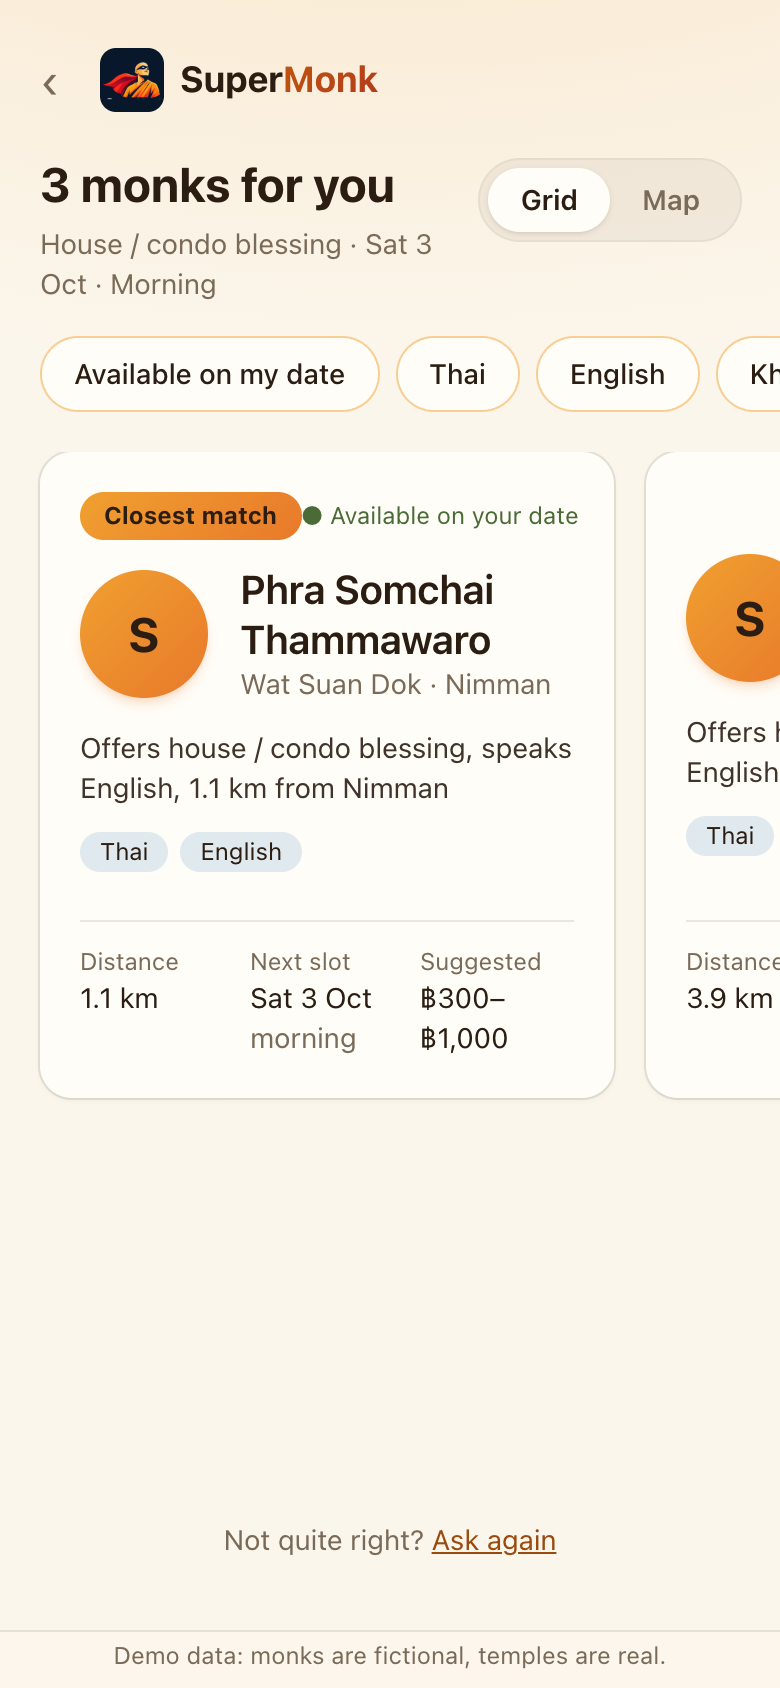
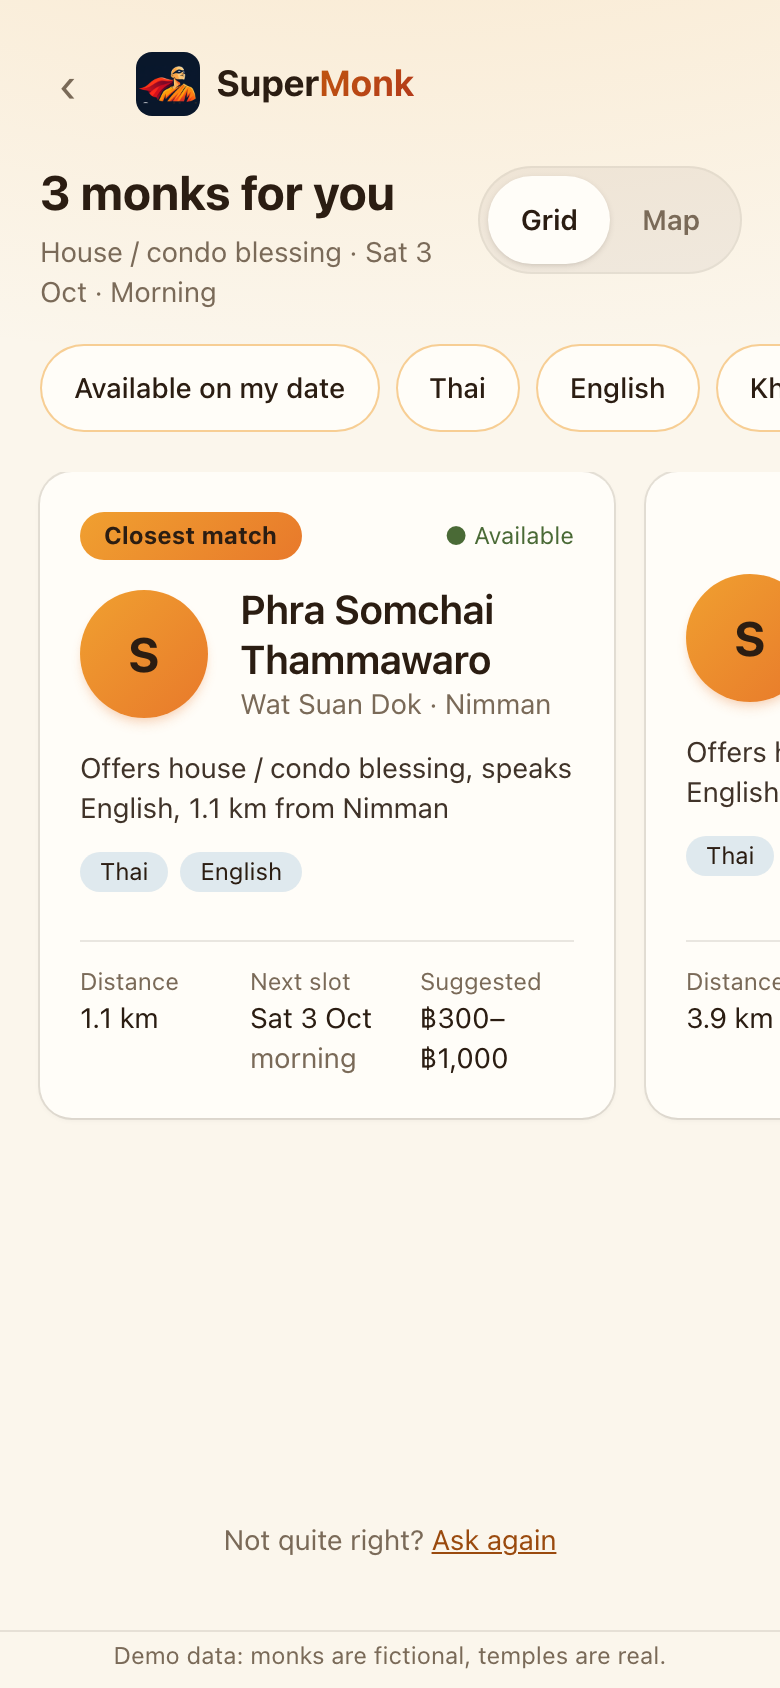
UX review fixes: declined-page overflow, badge gap, titles, live status, badges, layout
Blockers from RESEARCH/SUPERMONK_UX_REVIEW_2026_09_26.md:
- /invite/<declined> no longer overflows at 1440 (was 2465 px): the runner-up
  wrapper is block, MonkCard takes lg:w-full min-w-0 and the bio breaks words.
  Measured scrollWidth 1440 on a real declined invite.
- "Closest match" badge no longer touches the availability label at 390: the top
  row has gap-2 and the label reads "Available" / "Not on date" below lg
  (72 px gap on the 287 px card).

Should-fixes:
- "Declined" badge uses a new cape-deep token (5.67:1 on the cape/15 tint).
- VerifiedBadge: tier 1 is mist/navy instead of cream-on-white; level 0 is hidden
  unless NEXT_PUBLIC_VERIFY_REQUIRED=1 (documented in env.example, README,
  docs/VERIFICATION.md), so the demo never shows "Not verified".
- "Suggested donation (ทำบุญ)" -> "(ปัจจัย)" to match the card.
- Root title template "%s · SuperMonk" plus a layout.tsx per route segment with
  its own title; /play keeps "Healing bowls" through the template.
- sr-only H1 on /chat and /matching; ConfirmationCard heading is H2.
- Header logo link labelled "SuperMonk home".
- One persistent sr-only live region on the invite page whose text follows the
  status, so pending -> accepted/declined is announced.
- Accepted invite renders as a single centred column at lg; chat pills sit under
  the last bubble (28 px) instead of pinned ~480 px lower.
- /onboard unselected slot buttons are surface/navy-ringed so they show on the
  white card.
[…]

diff --git a/tests/ux-review.test.ts b/tests/ux-review.test.ts
@@ -1,0 +1,112 @@
+import { readdirSync } from "node:fs";
+import path from "node:path";
+import { createElement } from "react";
+import { renderToStaticMarkup } from "react-dom/server";
+import { afterEach, describe, expect, it } from "vitest";
+import ConfirmationCard from "@/components/ConfirmationCard";
+import { Header } from "@/components/ui";
+import VerifiedBadge, { verifyRequiredPublic } from "@/components/VerifiedBadge";
+import { metadata as rootMetadata } from "@/app/layout";
+import type { ConfirmationCard as CardData } from "@/lib/types";
+
+// Guards for the UX review fixes (RESEARCH/SUPERMONK_UX_REVIEW_2026_09_26.md).
+
+describe("VerifiedBadge", () => {
+  const saved = process.env.NEXT_PUBLIC_VERIFY_REQUIRED;
+  afterEach(() => {
+    if (saved === undefined) delete process.env.NEXT_PUBLIC_VERIFY_REQUIRED;
+    else process.env.NEXT_PUBLIC_VERIFY_REQUIRED = saved;
+  });
+
+  it("hides 'Not verified' at level 0 while the gate is off (the demo default)", () => {
+    delete process.env.NEXT_PUBLIC_VERIFY_REQUIRED;
+    expect(verifyRequiredPublic()).toBe(false);
+    expect(renderToStaticMarkup(createElement(VerifiedBadge, { level: 0 }))).toBe("");
+  });
+
+  it("shows 'Not verified' at level 0 when NEXT_PUBLIC_VERIFY_REQUIRED=1", () => {
+    process.env.NEXT_PUBLIC_VERIFY_REQUIRED = "1";
+    const html = renderToStaticMarkup(createElement(VerifiedBadge, { level: 0 }));
+    expect(html).toContain("Not verified");
+    expect(html).not.toContain("cream");
+  });
+
+  it("renders tiers 1 and 2 on light surfaces (no cream-on-white)", () => {
+    for (const level of [1, 2] as const) {
+      const html = renderToStaticMarkup(createElement(VerifiedBadge, { level }));
+      expect(html).toContain(level === 1 ? "Phone verified" : "Verified host");
+      expect(html).toContain("text-navy");
+      expect(html).not.toContain("text-cream");
+    }
+  });
+
+  it("renders nothing while the level is unknown", () => {
+    expect(renderToStaticMarkup(createElement(VerifiedBadge, { level: undefined }))).toBe("");
+  });
+});
+
+describe("page titles", () => {
+  const root = path.resolve(import.meta.dirname, "..", "app");
+  const expected: Record<string, string> = {
+    chat: "Ask",
+    matching: "Finding monks",
+    matches: "Monks for you",
+    monk: "Monk profile",
+    invite: "Your invite",
+    my: "My invites",
+    office: "Temple office",
+    onboard: "กิจนิมนต์ SuperMonk",
+    verify: "Verify",
+  };
+
+  it("root layout uses a title template", () => {
+    expect(rootMetadata.title).toEqual({ default: "SuperMonk", template: "%s · SuperMonk" });
+  });
+
+  it.each(Object.entries(expected))("app/%s has its own title", async (segment, title) => {
+    const mod = (await import(`@/app/${segment}/layout.tsx`)) as { metadata?: { title?: unknown } };
+    expect(mod.metadata?.title).toBe(title);
+  });
+
+  it("/play keeps its own title (server page)", async () => {
+    const mod = (await import("@/app/play/page")) as { metadata?: { title?: unknown } };
+    expect(mod.metadata?.title).toBe("Healing bowls");
+  });
+
+  // Class-of-issue guard: every user-facing route segment must be titled.
+  it("every non-API route segment with a page has a layout or page title", () => {
+    const untitled = readdirSync(root, { withFileTypes: true })
+      .filter((d) => d.isDirectory() && !["api", "dev"].includes(d.name))
+      .map((d) => d.name)
+      .filter((seg) => {
+        const files = readdirSync(path.join(root, seg));
+        return !(files.includes("layout.tsx") || seg === "play");
+      });
+    expect(untitled).toEqual([]);
+  });
+});
+
+describe("headings and names", () => {
+  const card: CardData = {
+    code: "SM-TEST1",
+    monkName: "Phra Somchai",
+    templeName: "Wat Suan Dok",
+    when: "Sat 3 Oct, morning",
+    where: "Nimman",
+    donation: 1000,
+    prepare: ["Envelope"],
+    thaiLine: "ขอนิมนต์",
+    icsUrl: "/api/invites/SM-TEST1/ics",
+  };
+
+  it("ConfirmationCard uses H2 for 'What to prepare' (no H3 after the page H1)", () => {
+    const html = renderToStaticMarkup(createElement(ConfirmationCard, { card }));
+    expect(html).toContain("<h2");
+    expect(html).not.toContain("<h3");
+  });
+
+  it("Header logo link has an accessible name even without the wordmark", () => {
+    const html = renderToStaticMarkup(createElement(Header, { title: "Verify" }));
+    expect(html).toContain('aria-label="SuperMonk home"');
+  });
+});

diff --git a/app/invite/[code]/page.tsx b/app/invite/[code]/page.tsx
@@ -64,24 +64,47 @@ function InviteStatus() {
     setNext(others[0]);
   }, [data]);
 
-  if (!data) return error ? <ErrorNote message={error} /> : <p className="mt-20 text-center text-muted">Loading…</p>;
+  // One live region that exists from the first render; only its text changes, so screen readers
+  // announce pending → accepted / declined (a region mounted together with its content is not).
+  const status = !data
+    ? "Loading your invite"
+    : data.invite.status === "pending"
+      ? "Invite sent"
+      : data.invite.status === "accepted"
+        ? `${data.card.monkName} accepted`
+        : `${data.card.monkName} can't make it`;
+  const live = (
+    <p role="status" aria-live="polite" className="sr-only">
+      {status}
+    </p>
+  );
+
+  if (!data)
+    return (
+      <>
+        {live}
+        {error ? <ErrorNote message={error} /> : <p className="mt-20 text-center text-muted">Loading…</p>}
+      </>
+    );
   const { invite, card } = data;
 
+  // Accepted: the card is the whole story, so it takes the single centred column on lg (no empty
+  // left column). Declined: the runner-up sits in the aside. `block` (not flex) so the MonkCard
+  // gets the column width instead of sizing to its unwrapped bio.
   const asideContent =
-    invite.status === "accepted" ? (
-      <ConfirmationCard card={card} verified={verified} />
-    ) : invite.status === "declined" && next ? (
-      <div className="-mx-5 flex px-5 lg:mx-0 lg:px-0">
+    invite.status === "declined" && next ? (
+      <div className="-mx-5 block px-5 lg:mx-0 lg:px-0">
         <MonkCard card={next} />
       </div>
     ) : null;
 
   return (
     <Stage aside={asideContent ? <StageAside>{asideContent}</StageAside> : undefined}>
+      {live}
       <section className="flex flex-1 flex-col gap-5">
         <Header back="/my" />
         {invite.status === "pending" ? (
-          <div className="flex flex-col items-center gap-4 py-8 text-center" role="status" aria-live="polite">
+          <div className="flex flex-col items-center gap-4 py-8 text-center">
             <div className="h-14 w-14 rounded-full border-4 border-saffron/20 border-t-saffron motion-safe:animate-spin motion-reduce:border-saffron/60" aria-hidden />
             <h1 className="text-2xl font-bold">Invite sent</h1>
             <p className="text-muted">
@@ -97,7 +120,7 @@ function InviteStatus() {
 
         {invite.status === "accepted" ? (
           <>
-            <div className="text-center" role="status" aria-live="polite">
+            <div className="text-center">
               <p className="text-4xl" aria-hidden>
                 🙏
               </p>
@@ -106,11 +129,12 @@ function InviteStatus() {
               </h1>
               <p className="mt-1 text-muted">Here is everything you need for the day.</p>
             </div>
+            <ConfirmationCard card={card} verified={verified} />
           </>
         ) : null}
 
         {invite.status === "declined" ? (
-          <div className="flex flex-col gap-4" role="status" aria-live="polite">
+          <div className="flex flex-col gap-4">
             <h1 className="text-2xl font-bold">{card.monkName} can't make it</h1>
             <p className="text-muted">The temple office declined this time. Here is another monk who could come.</p>
             {next ? null : (

diff --git a/components/MonkCard.tsx b/components/MonkCard.tsx
@@ -19,12 +19,14 @@ export default function MonkCard({ card, top }: { card: MatchCard; top?: boolean
   return (
     <Link
       href={`/monk/${card.monkId}`}
-      className={`flex w-[82%] shrink-0 snap-center flex-col gap-3 rounded-card bg-navy-2 p-5 shadow-sm shadow-navy/5 ring-1 ring-navy/10 transition active:scale-[0.99] lg:w-auto lg:snap-align-none lg:p-6 motion-safe:lg:hover:-translate-y-1 lg:hover:shadow-lg lg:hover:shadow-orange/10 lg:hover:ring-saffron/50 ${FOCUS_RING}`}
+      className={`flex w-[82%] shrink-0 snap-center flex-col gap-3 rounded-card bg-navy-2 p-5 shadow-sm shadow-navy/5 ring-1 ring-navy/10 transition active:scale-[0.99] min-w-0 lg:w-full lg:snap-align-none lg:p-6 motion-safe:lg:hover:-translate-y-1 lg:hover:shadow-lg lg:hover:shadow-orange/10 lg:hover:ring-saffron/50 ${FOCUS_RING}`}
     >
-      <div className="flex items-center justify-between">
-        {top ? <span className="bg-brand whitespace-nowrap rounded-full px-3 py-1 text-xs font-bold text-navy">Closest match</span> : <span />}
-        <span className={`whitespace-nowrap text-xs ${card.availableOnDate ? "text-rice-deep" : "text-muted"}`}>
-          {card.availableOnDate ? "● Available on your date" : "○ Not on your date"}
+      <div className="flex items-center justify-between gap-2">
+        {top ? <span className="bg-brand shrink-0 whitespace-nowrap rounded-full px-3 py-1 text-xs font-bold text-navy">Closest match</span> : <span />}
+        {/* Short label below lg: the full one touched the "Closest match" badge on a 287 px card at 390 px. */}
+        <span className={`text-right text-xs ${card.availableOnDate ? "text-rice-deep" : "text-muted"}`}>
+          <span className="lg:hidden">{card.availableOnDate ? "● Available" : "○ Not on date"}</span>
+          <span className="hidden lg:inline">{card.availableOnDate ? "● Available on your date" : "○ Not on your date"}</span>
         </span>
       </div>
       <div className="flex items-center gap-4 lg:flex-col lg:items-start lg:gap-3">
@@ -47,7 +49,7 @@ export default function MonkCard({ card, top }: { card: MatchCard; top?: boolean
           </p>
         </div>
       </div>
-      {monk ? <p className="hidden text-sm leading-relaxed text-navy/80 lg:line-clamp-2">{monk.bio}</p> : null}
+      {monk ? <p className="hidden break-words text-sm leading-relaxed text-navy/80 lg:line-clamp-2">{monk.bio}</p> : null}
       <p className="text-sm text-navy/90">
         <span className="hidden text-xs uppercase tracking-wide text-muted lg:block">Why this monk</span>
         {card.why}

diff --git a/components/VerifiedBadge.tsx b/components/VerifiedBadge.tsx
@@ -2,14 +2,22 @@ import type { VerifyTier } from "@/lib/verify/types";
 
 const LABEL: Record<VerifyTier, string> = { 0: "Not verified", 1: "Phone verified", 2: "Verified host" };
 const STYLE: Record<VerifyTier, string> = {
-  0: "text-muted ring-1 ring-cream/15",
-  1: "bg-cream/15 text-cream",
+  0: "text-muted ring-1 ring-navy/15",
+  1: "bg-mist/40 text-navy",
   2: "bg-saffron text-navy",
 };
 
-/** Small pill for invite lists and the confirmation card. `level` comes from /api/verify/status. */
+/** Public mirror of the server's VERIFY_REQUIRED flag (lib/verify/index.ts); inlined by Next at build time. */
+export const verifyRequiredPublic = (env: NodeJS.ProcessEnv = process.env): boolean => env.NEXT_PUBLIC_VERIFY_REQUIRED === "1";
+
+/**
+ * Small pill for invite lists and the confirmation card. `level` comes from /api/verify/status.
+ * "Not verified" is only worth showing when verification gates invites; with the gate off it
+ * reads as a warning on the happy path, so level 0 renders nothing.
+ */
 export default function VerifiedBadge({ level, className = "" }: { level: VerifyTier | undefined; className?: string }) {
   if (level === undefined) return null;
+  if (level === 0 && !verifyRequiredPublic()) return null;
   return (
     <span className={`inline-flex shrink-0 items-center gap-1 rounded-full px-2.5 py-0.5 text-xs font-medium ${STYLE[level]} ${className}`}>
       {level > 0 ? (

diff --git a/app/chat/page.tsx b/app/chat/page.tsx
@@ -102,7 +102,9 @@ export default function ChatPage() {
     <Stage>
       <section className="flex flex-1 flex-col">
         <Header back="/" />
-        <div className="flex flex-1 flex-col gap-3">
+        <h1 className="sr-only">Tell SuperMonk more</h1>
+        {/* lg:flex-none keeps the answer pills right under the last bubble on the projector instead of ~480 px down. */}
+        <div className="flex flex-1 flex-col gap-3 lg:flex-none">
           {flow.messages.map((m, i) => (
             <Bubble key={i} from={m.role}>
               {m.content}

diff --git a/components/ui.tsx b/components/ui.tsx
@@ -88,7 +88,7 @@ export function Header({ title, back }: { title?: string; back?: string }) {
           ‹
         </Link>
       ) : null}
-      <Link href="/" className={`flex items-center gap-2 rounded-lg ${FOCUS_RING}`}>
+      <Link href="/" aria-label="SuperMonk home" className={`flex items-center gap-2 rounded-lg ${FOCUS_RING}`}>
         <img src="/icons/icon-192.png" alt="" className="h-8 w-8 rounded-lg" />
         {title ? null : <span className="text-lg font-bold">Super<span className="text-brand">Monk</span></span>}
       </Link>

diff --git a/app/onboard/page.tsx b/app/onboard/page.tsx
@@ -189,7 +189,7 @@ function Row({ label, value, onToggle }: { label: string; value: Slot[]; onToggl
           onClick={() => onToggle(s)}
           aria-pressed={value.includes(s)}
           aria-label={`${label} ${l}`}
-          className={`h-11 rounded-lg ${FOCUS_RING} ${value.includes(s) ? "bg-brand" : "bg-cream/10 ring-1 ring-saffron/30"}`}
+          className={`h-11 rounded-lg ${FOCUS_RING} ${value.includes(s) ? "bg-brand" : "bg-surface ring-1 ring-navy/20"}`}
         >
           {value.includes(s) ? "✓" : ""}
         </button>

diff --git a/app/monk/[id]/page.tsx b/app/monk/[id]/page.tsx
@@ -119,7 +119,7 @@ export default function MonkPage() {
       ) : null}
 
       <Card>
-        <h2 className="mb-1 text-sm uppercase tracking-wide text-muted">Suggested donation (ทำบุญ)</h2>
+        <h2 className="mb-1 text-sm uppercase tracking-wide text-muted">Suggested donation (ปัจจัย)</h2>
         <p className="mb-3 text-xs text-muted">Given in an envelope on the day. SuperMonk takes no payment.</p>
         <div className="flex flex-wrap gap-2">
           {options.map((v) => (

diff --git a/app/play/page.tsx b/app/play/page.tsx
@@ -2,7 +2,7 @@ import type { Metadata } from "next";
 import SuperMonkGame from "@/components/SuperMonkGame";
 import { Header } from "@/components/ui";
 
-export const metadata: Metadata = { title: "SuperMonk · Healing bowls" };
+export const metadata: Metadata = { title: "Healing bowls" };
 
 // Demo route for the home-page slot: renders the game on its own at the desktop column
 // width (560 px) so it can be tested and screenshotted without the rest of the flow.

diff --git a/components/ConfirmationCard.tsx b/components/ConfirmationCard.tsx
@@ -30,7 +30,7 @@ export default function ConfirmationCard({ card, verified }: { card: CardData; v
       </dl>
 
       <div>
-        <h3 className="mb-2 text-sm uppercase tracking-wide text-muted">What to prepare</h3>
+        <h2 className="mb-2 text-sm uppercase tracking-wide text-muted">What to prepare</h2>
         <ul className="flex flex-col gap-1.5 text-sm">
           {card.prepare.map((item) => (
             <li key={item} className="flex gap-2">

diff --git a/app/globals.css b/app/globals.css
@@ -14,6 +14,7 @@
   --color-orange: #e8792b;
   --color-ember: #9a4a0e; /* saffron as *text* on cream: 5.80:1 (raw saffron is 1.99:1) */
   --color-cape: #c8323f; /* destructive / decline only: 4.89:1 on cream */
+  --color-cape-deep: #a5262f; /* cape as text on the cape/15 badge tint: 5.67:1 (raw cape is 4.15:1) */
   --color-lotus: #e9a7b6;
   --color-rice: #8fb27a;
   --color-rice-deep: #4a6a36; /* rice as text on cream: 5.72:1 */

diff --git a/app/layout.tsx b/app/layout.tsx
@@ -3,7 +3,7 @@ import "./globals.css";
 import DemoBadge from "@/components/DemoBadge";
 
 export const metadata: Metadata = {
-  title: "SuperMonk",
+  title: { default: "SuperMonk", template: "%s · SuperMonk" },
   description: "Invite a monk in Chiang Mai: blessings, monk chat, meditation.",
   manifest: "/manifest.webmanifest",
   appleWebApp: { capable: true, title: "SuperMonk", statusBarStyle: "default" },
